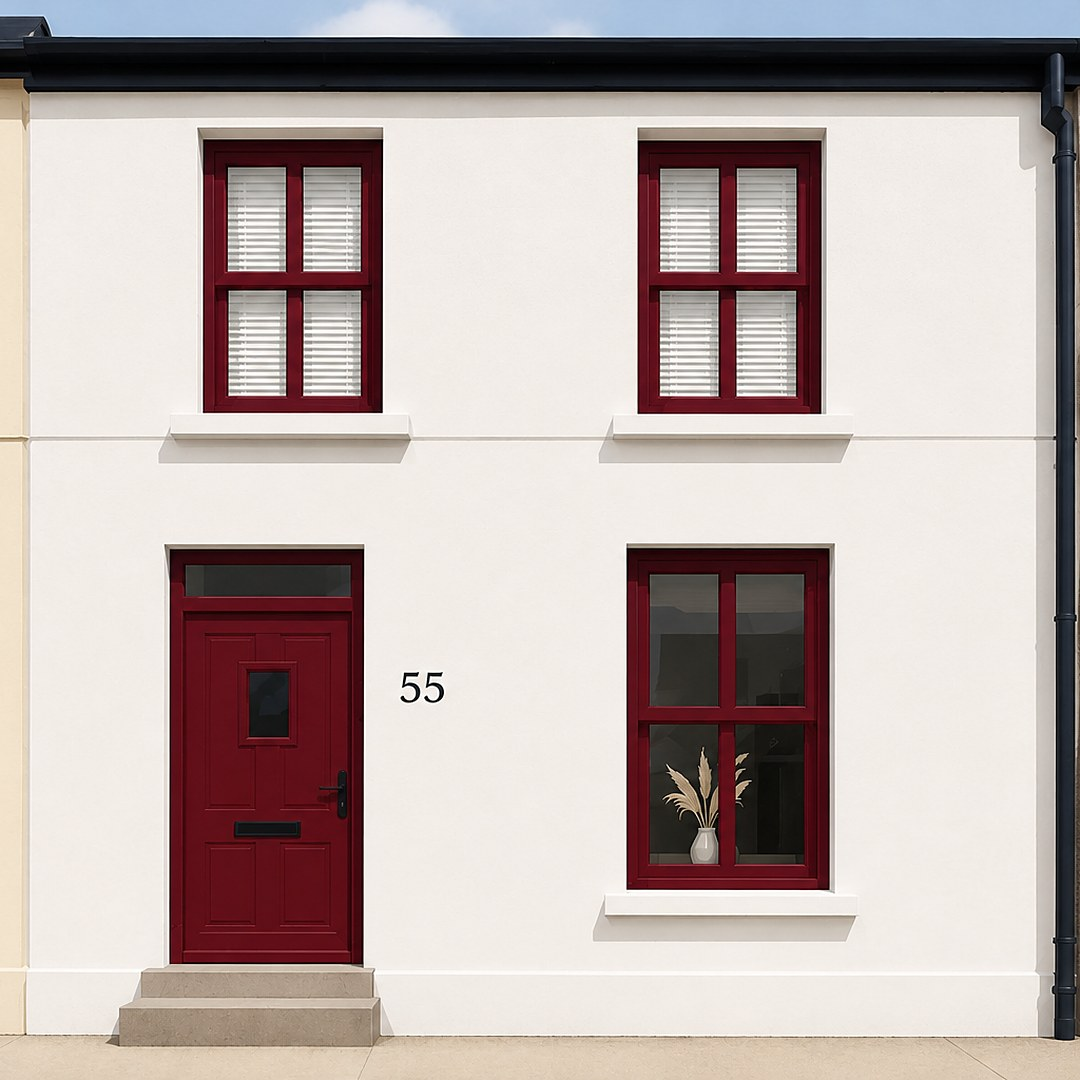
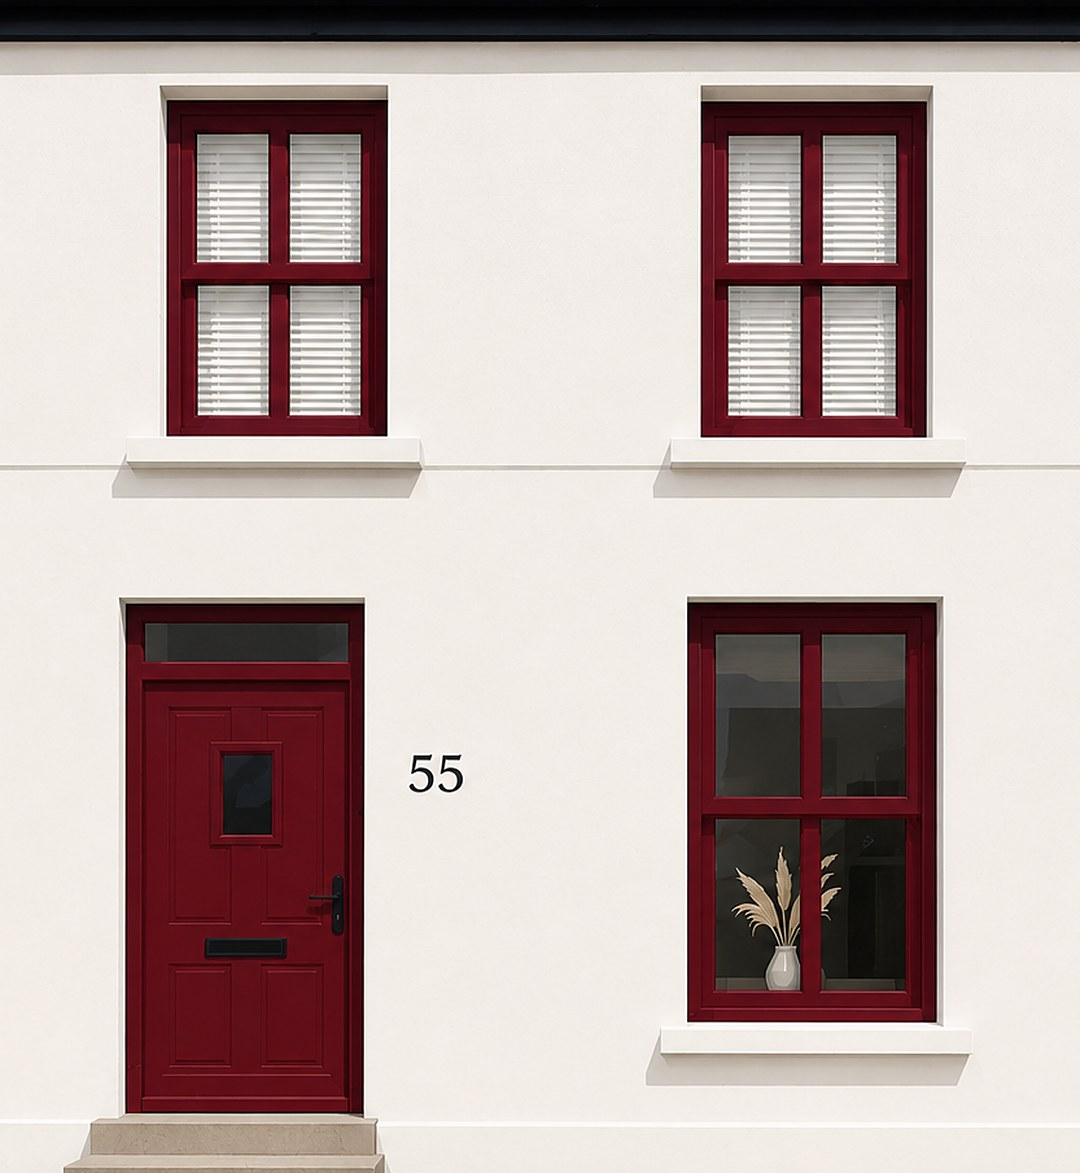
Mobile hero: facade crop, text below, thinner nav

diff --git a/index.html b/index.html
@@ -802,7 +802,7 @@
       .landing-scroll-text { color: var(--mist); }
     }
 
-    /* ─── Mobile hero: square photo band, text below ─── */
+    /* ─── Mobile hero: facade crop, text below ─── */
     @media (max-width: 680px) {
       .nav          { height: 64px; padding: 0 20px; }
       .nav.is-solid { height: 64px; padding: 0 20px; }
@@ -824,7 +824,7 @@
       .landing-photo picture {
         display: block;
         position: relative;
-        aspect-ratio: 1 / 1;
+        aspect-ratio: 833 / 905;
         overflow: hidden;
       }
       .landing-image {
